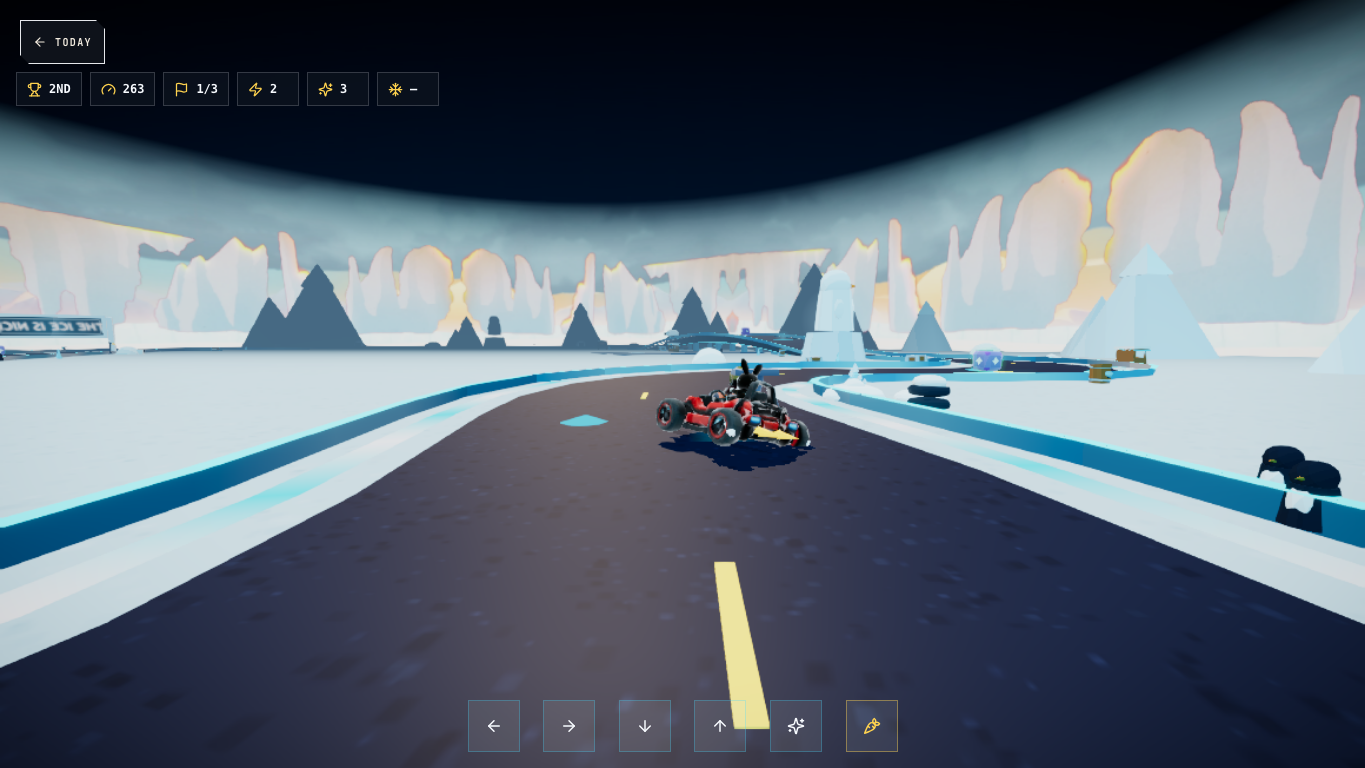
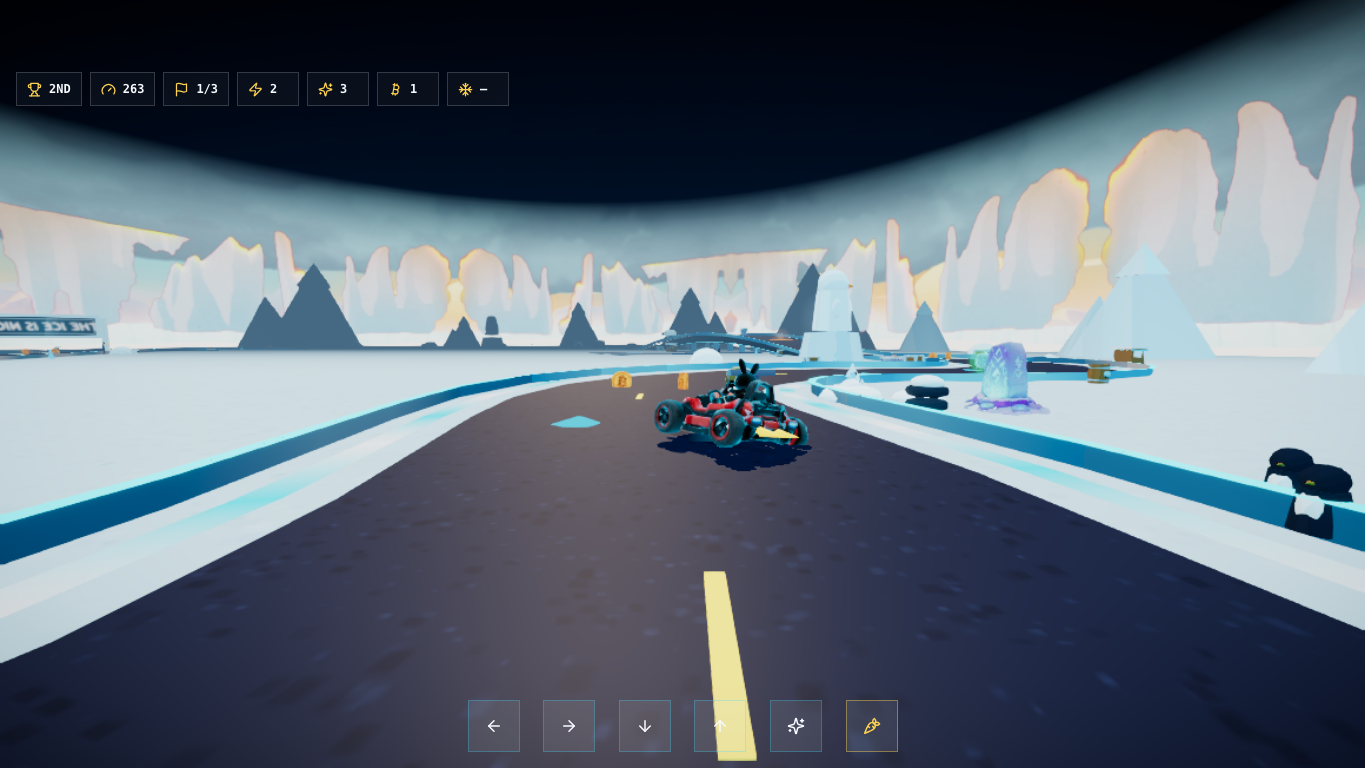
K1 DEPLOYED: dist-kart live on comeback-city-kart.pages.dev, full live battery green
- npm run deploy:kart (owner go), deploy 562cd020; alias propagated + verified
- verify-live-deploy both tracks: mounts 22/22 CC + 9/9 PV, zero CSP errors
- live-coin-probe: 8 coins by lap 2, HUD badge agrees, 477 draw calls
- live /sw.js byte-identical to dist-kart/sw.js, served no-store
- NEW tmp/k1-live-sw-swap: fitness->kart SW swap re-proven ON the live
  origin (seeds pre-K1 fitness SW via Playwright routing; 4/4 incl. fresh
  visitor install, forced-update swap, REAL offline replay on live)
- approvals-hub: deploy gate CLOSED, budget ack row stays open
- handoff doc: K1 DEPLOYED checkpoint block added on top

diff --git a/approvals-hub.html b/approvals-hub.html
@@ -23,7 +23,7 @@
 
     <h2 style="color:#ffd34f; border-color:#5a4a1a;">⚡ Decisions waiting on you (updated 2026-07-11 pm)</h2>
     <ul>
-      <li><strong>K1 IS BUILT — the kart game is now its own app (2026-07-11 pm)</strong> — <code>npm run build:kart</code> produces a standalone kart-only artifact: <strong>8.78&nbsp;MiB raw / 6723&nbsp;KiB gzip vs the 13.49/8490 combined build</strong> (the whole fitness app is out — JS alone dropped 4.79&nbsp;→&nbsp;1.10&nbsp;MiB). Fitness build verified byte-identical (79/79 file hashes). Placeholder name "<strong>Penguin Kart</strong>" + placeholder wheel icon until you deliver the real ones. GLBs now cache offline after first play (the SW finally covers them). TWO calls for you: <strong>(1) ack the kart-only bundle thresholds</strong> set from this first measurement — total 12&nbsp;MiB raw / 8000&nbsp;KiB gzip, JS held tight at 2&nbsp;MiB / 500&nbsp;KiB gzip so the fitness app can never creep back in (~1.3&nbsp;MB gzip of content room for K4–K7); <strong>(2) say "deploy the kart build"</strong> when you want it live — same comeback-city-kart project, <code>npm run deploy:kart</code>.</li>
+      <li><strong>K1 IS LIVE — the standalone kart game is deployed (2026-07-11 eve, on your "deploy" go)</strong> — <code>npm run deploy:kart</code> shipped <code>dist-kart</code> to <a href="https://comeback-city-kart.pages.dev/#race">comeback-city-kart.pages.dev</a> and the full live battery is green: both tracks verified (mounts 22/22 CC + 9/9 PV, zero CSP errors), coin probe collected 8&nbsp;₿ by lap 2 with the HUD badge agreeing, live <code>/sw.js</code> byte-identical to the build and served no-store, fresh visitors install the kart SW in &lt;5s, a returning fitness-app client self-swaps to the kart shell on its next visit (proven against the live origin — tmp/k1-live-sw-swap), and a full OFFLINE reload still races with all mounts. Build: <strong>8.78&nbsp;MiB raw / 6723&nbsp;KiB gzip vs the 13.49/8490 combined build</strong> (JS 4.79&nbsp;→&nbsp;1.10&nbsp;MiB); fitness build byte-identical (79/79 hashes). Placeholder name "<strong>Penguin Kart</strong>" + wheel icon still shipping until you deliver the real ones. ONE call left from K1: <strong>ack the kart-only bundle thresholds</strong> — total 12&nbsp;MiB raw / 8000&nbsp;KiB gzip, JS held tight at 2&nbsp;MiB / 500&nbsp;KiB gzip so the fitness app can never creep back in (~1.3&nbsp;MB gzip of content room for K4–K7).</li>
       <li><strong>₿ COINS ARE LIVE (deployed 2026-07-11 on your "deploy the coins")</strong> — 2 per row per your call ("only 2 in a row not 3"): the center coin is gone, so a coin now costs a line change. Live-verified both tracks (mounts 22/22 + 9/9, zero CSP errors; autoplay probe collected 8 by lap 2 vs 18/race in the old 3-wide layout — harder, as intended). Feel them on your phone: <a href="https://comeback-city-kart.pages.dev/#race">live game</a>. ONE sign-off still open: the proof-gate warmup move <code>fpsWarmupMs 2500 → 4000</code> (minFps floor stays 8; the headless SwiftShader compile ramp was crossing the old 2500ms sample boundary — same re-baseline pattern you signed for W0; dated note in proof-scenarios.json gatesNote).</li>
       <li><strong>V1-BETA PLAN IS WRITTEN (2026-07-11)</strong> — <a href="/docs/PENGUIN_KART_V1_BETA_PRD.md">docs/PENGUIN_KART_V1_BETA_PRD.md</a>: split into the standalone penguin kart game (K1) → mobile controls V2 (K3) → crosser + 5 karts + characters + item renders (K4–K7) → menu beauty pass (K8) → share (K9). Your calls in its §5 gate table, headliners: <strong>the game's NAME</strong> (candidates inside) · kart-only budget ack at K1 exit (the 8500→9500 raise is likely unnecessary after the split — the dead fitness payload is ~1.8&nbsp;MB gz) · confirm the credits/garage economy stays shelved · your deliveries for the new characters (3 ordinal ChatGPT sheets + lifoladen Tripo run).</li>
       <li class="hint">outplayasians likeness APPROVED 2026-07-10 ("asians looked great") — crosser wiring is K4 in the V1-beta PRD (roster seat = your call when it lands).</li>

diff --git a/docs/GRAPHICS_REVAMP_HANDOFF_PROMPT.md b/docs/GRAPHICS_REVAMP_HANDOFF_PROMPT.md
@@ -1,6 +1,30 @@
 # Graphics Revamp — Fresh-Context Handoff Prompt
 
-## ⚡ K1 LANDED (2026-07-11 pm — newest state, read before the block below)
+## ⚡ K1 DEPLOYED (2026-07-11 eve — newest state, supersedes "NOT deployed" below)
+
+**The K1 kart-only build is LIVE on comeback-city-kart.pages.dev** (owner
+gave the deploy go; `npm run deploy:kart`, deploy 562cd020). Full live
+battery GREEN: verify-live-deploy both tracks (mounts 22/22 CC + 9/9 PV,
+zero CSP errors, postChain on) · live-coin-probe 8 ₿ by lap 2, HUD badge
+agrees, 477 draw calls · live `/sw.js` byte-identical to `dist-kart/sw.js`
+and served `no-cache, no-store` (registerSW.js too) · fresh visitor
+installs the kart SW and is controlled in <5s · **fitness→kart SW swap
+re-proven ON THE LIVE ORIGIN** (tmp/k1-live-sw-swap/live-sw-swap-smoke.mjs,
+4/4: seeds the pre-K1 fitness SW against the real origin via Playwright
+request interception — needs `PW_EXPERIMENTAL_SERVICE_WORKER_NETWORK_EVENTS=1`
+— then the client updates itself into the kart shell from the real live
+deploy) · full OFFLINE reload still races with all mounts (CacheFirst
+runtime cache working on live). One nuance, documented in the smoke:
+Chrome only forces the sw.js update check on navigation when the
+registration is stale (>24h) — a seconds-old seeded registration needs an
+explicit `registration.update()` (that's the exact fetch a real returning
+user's navigation performs; real clients are always stale by the time a
+deploy matters). `/index.html` 308-redirects to `/` on Pages — workbox
+precache handles it (fresh-install proof), don't chase it as a bug.
+**Deploy gate CLOSED in approvals-hub; budget-ack row remains open.**
+NEXT = K2, still gated on the owner's economy-stays-shelved confirm.
+
+## ⚡ K1 LANDED (2026-07-11 pm — read before the block below)
 
 **K1 (kart-only build target) is BUILT + verified locally, NOT yet
 deployed (owner-gated).** `npm run build:kart` → `dist-kart` via
